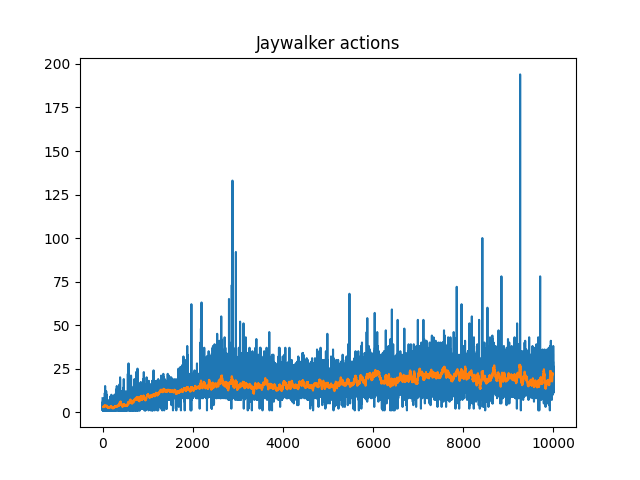
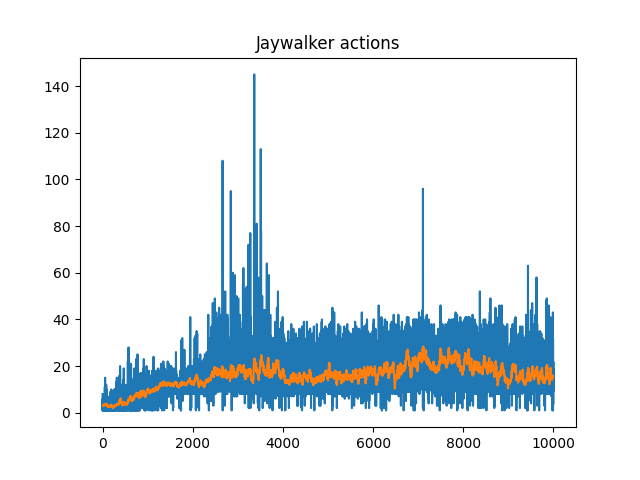
added last env

diff --git a/testing/car_arriving_lex/training/TRAINING_alternated.py b/testing/car_arriving_lex/training/TRAINING_alternated.py
@@ -376,37 +376,9 @@ class Jaywalker:
 
         return state, reward, terminated, truncated, completed
 
-
     def reset(self):
 
         self.obstacles = []
-
-        # Alternanza scenari
-        self.last_scenario = getattr(self, 'last_scenario', 1)
-        current_scenario = 2 if self.last_scenario == 1 else 1
-        self.last_scenario = current_scenario
-
-        self.car.reset(array([0.0, 2.5]))
-        self.counter_iterations = 0
-
-        # --- Pedone fermo a metà strada, posizione fissa ---
-        self.jaywalker = array([self.dim_x * 0.5, self.dim_y / 4])
-        self.jaywalker_speed = 0.0
-        self.jaywalker_dir = 0
-        self.jaywalker_max = self.jaywalker + self.jaywalker_r
-        self.jaywalker_min = self.jaywalker - self.jaywalker_r
-
-        # # --- Scenario 1: ostacolo distante (sorpasso possibile) ---
-        # if current_scenario == 1 and epsilon:
-        #     pos_x = self.dim_x + 100  # molto lontano dal pedone
-        #     speed = 0.0         # lento
-        #     self.sight_obstacle = 70
-
-        # # # --- Scenario 2: ostacolo vicino (sorpasso critico) ---
-        # else:
-        #     pos_x = self.jaywalker[0] + 5  # vicino al pedone
-        #     speed = 0.5                   
-        #     self.sight_obstacle = 70
 
         # Alternanza scenari in fase 1
         if self.curriculum_stage == 1:
@@ -414,31 +386,52 @@ class Jaywalker:
         else:
             scenario = "critical"
 
-        
+        self.car.reset(array([0.0, 2.5]))
+        self.counter_iterations = 0
 
-        # Configura posizione ostacolo
+        # Pedone fermo a metà strada
+        self.jaywalker = array([self.dim_x * 0.5, self.dim_y / 4])
+        self.jaywalker_speed = 0.0
+        self.jaywalker_dir = 0
+        self.jaywalker_max = self.jaywalker + self.jaywalker_r
+        self.jaywalker_min = self.jaywalker - self.jaywalker_r
+
+        # === Scenario "easy": ostacolo molto distante ===
         if scenario == "easy":
-            pos_x = self.dim_x + 100  # lontano dal pedone
+            pos_x = self.dim_x + 100
             speed = 0.0
+            self.obstacles.append({
+                'type': 'car',
+                'pos': array([pos_x, self.lanes_y[1]]),
+                'r': 2.0,
+                'v': speed
+            })
 
+        # === Scenario "critical": ostacolo vicino o doppio ===
         if scenario == "critical":
             base_speed = 2.0
-            pos_x = self.jaywalker[0] + 20  # vicino al pedone
-            if self.curriculum_stage == 2:  # fase dopo epsilon=0.01
-                speed = base_speed - self.completed_mean
+            speed = base_speed - self.completed_mean if self.curriculum_stage == 2 else base_speed
+
+            if self.curriculum_stage == 2:
+                # Due auto che si muovono da destra a sinistra (verso l'agente)
+                for _ in range(2):
+                    pos_x = random.uniform(self.jaywalker[0] + 15, self.dim_x)
+                    self.obstacles.append({
+                        'type': 'car',
+                        'pos': array([pos_x, self.lanes_y[1]]),
+                        'r': 2.0,
+                        'v': speed  # verso sinistra
+                    })
             else:
-                speed = base_speed
+                # Singolo ostacolo in posizione fissa
+                pos_x = self.jaywalker[0] + 20
+                self.obstacles.append({
+                    'type': 'car',
+                    'pos': array([pos_x, self.lanes_y[1]]),
+                    'r': 2.0,
+                    'v': speed
+                })
 
-
-   
-        # Auto ostacolante nella corsia di sorpasso
-        lane = self.lanes_y[1]
-        self.obstacles.append({
-            'type': 'car',
-            'pos': array([pos_x, lane]),
-            'r': 2.0,
-            'v': speed
-        })
 
         # Stato iniziale
         inv_distance, angle = self.vision()
